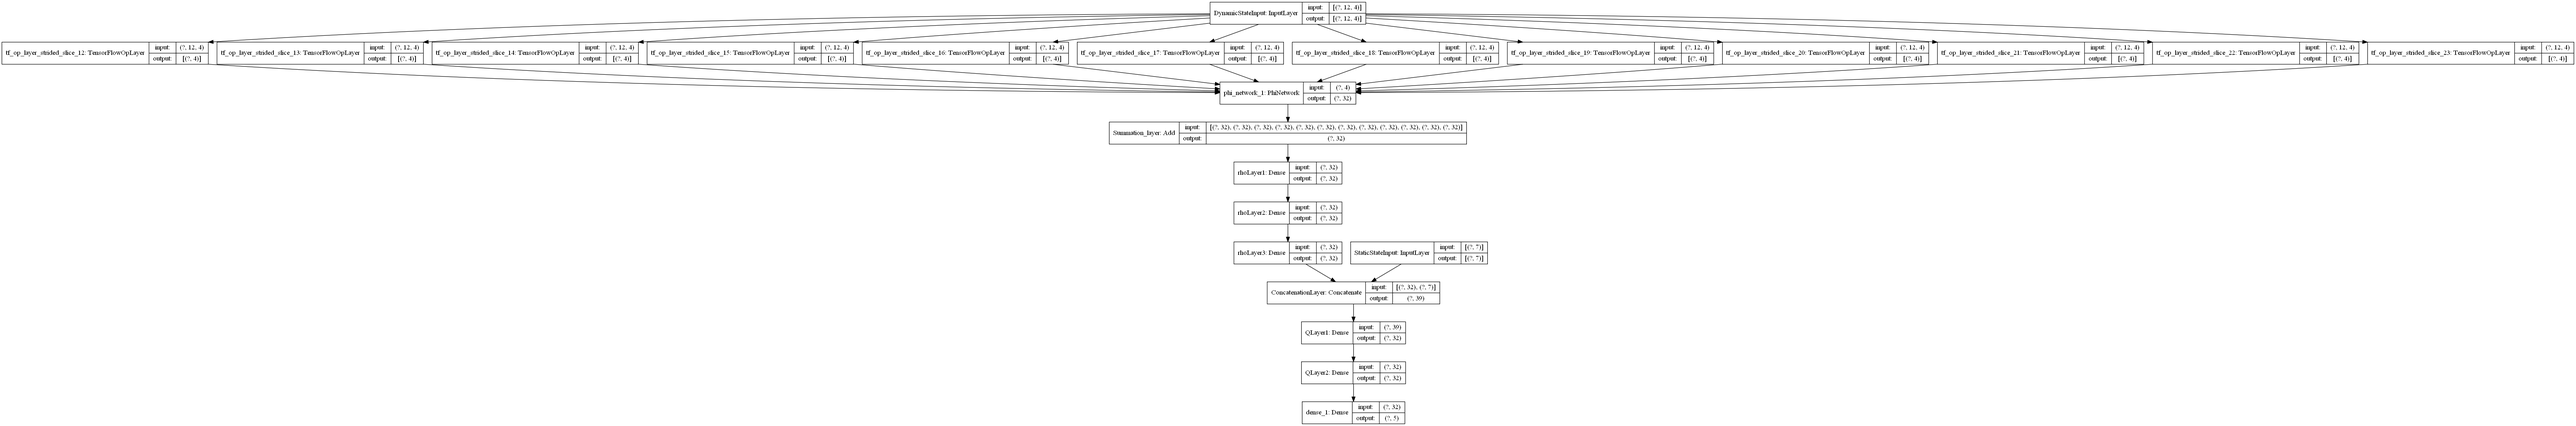
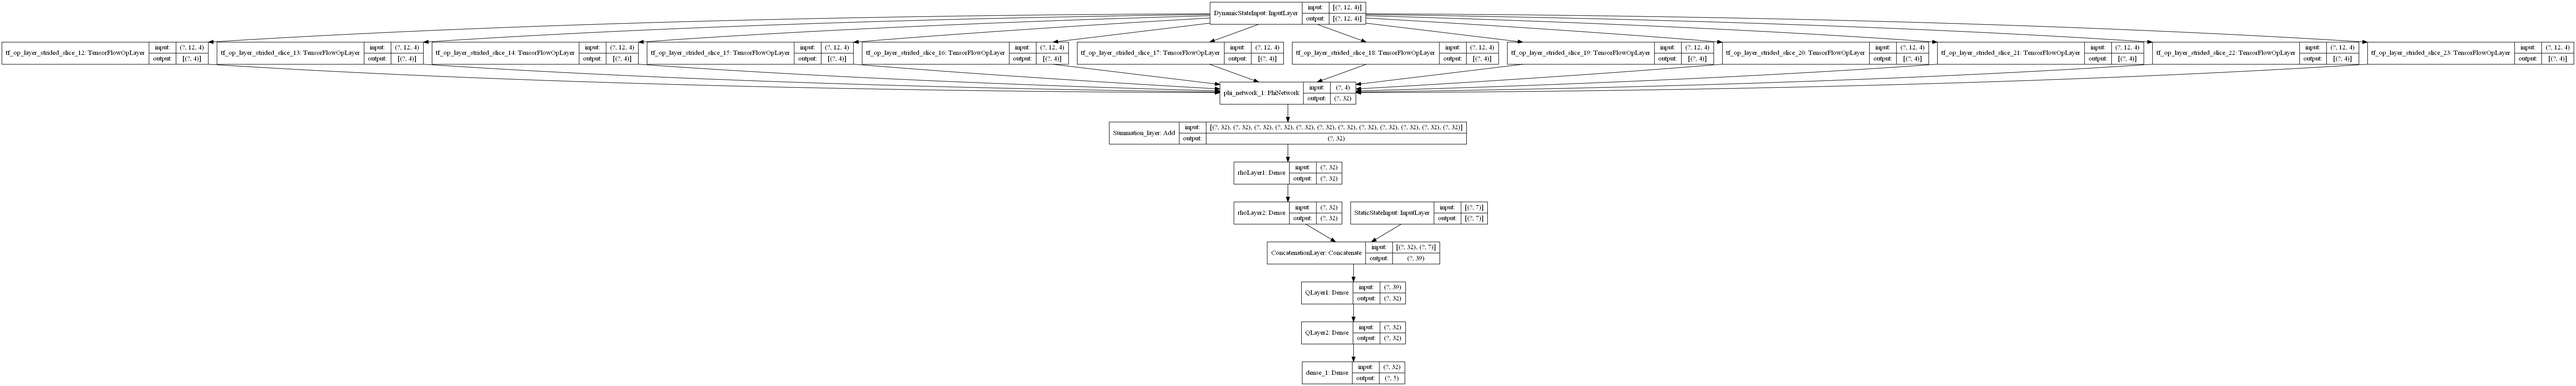
Fixed Deepset model again, will repeat parameter sweep

diff --git a/python/implementation/Models.py b/python/implementation/Models.py
@@ -315,83 +315,90 @@ class DeepSetQNetwork(keras.Model):
         n_units = model_param["n_units"]
         n_units_phi = model_param["deepset_param"]["n_units_phi"]
         n_units_rho = model_param["deepset_param"]["n_units_rho"]
+        self.n_layers_rho = len(n_units_rho)
+        self.n_layers_phi = len(n_units_phi)
+        self.is_batch_norm = model_param["batch_normalisation"]
         n_inputs_static = 7
         n_inputs_dynamic = 4
         n_vehicles = 12  # Defined by default D_max size
         n_actions = model_param["n_actions"]
 
-        self.static_input_layer = layers.Input(shape=(n_inputs_static), name="StaticStateInput")
-        self.dynamic_input_layer = layers.Input(shape=tf.TensorShape([n_vehicles, n_inputs_dynamic]), name="DynamicStateInput")
+        self.phi_network = PhiNetwork(n_units_phi, act_func_phi, ("PhiLayer1", "PhiLayer2", "PhiLayer3"))
 
-        vehicle_1 = self.dynamic_input_layer[:, 0, :]
-        vehicle_2 = self.dynamic_input_layer[:, 1, :]
-        vehicle_3 = self.dynamic_input_layer[:, 2, :]
-        vehicle_4 = self.dynamic_input_layer[:, 3, :]
-        vehicle_5 = self.dynamic_input_layer[:, 4, :]
-        vehicle_6 = self.dynamic_input_layer[:, 5, :]
-        vehicle_7 = self.dynamic_input_layer[:, 6, :]
-        vehicle_8 = self.dynamic_input_layer[:, 7, :]
-        vehicle_9 = self.dynamic_input_layer[:, 8, :]
-        vehicle_10 = self.dynamic_input_layer[:, 9, :]
-        vehicle_11 = self.dynamic_input_layer[:, 10, :]
-        vehicle_12 = self.dynamic_input_layer[:, 11, :]
+        self.sum_layer = layers.Add(name="Summation_layer")
 
-        phi_network = PhiNetwork(n_units_phi, act_func_phi, ("PhiLayer1", "PhiLayer2", "PhiLayer3"))
-
-        phi_out_1 = phi_network(vehicle_1)
-        phi_out_2 = phi_network(vehicle_2)
-        phi_out_3 = phi_network(vehicle_3)
-        phi_out_4 = phi_network(vehicle_4)
-        phi_out_5 = phi_network(vehicle_5)
-        phi_out_6 = phi_network(vehicle_6)
-        phi_out_7 = phi_network(vehicle_7)
-        phi_out_8 = phi_network(vehicle_8)
-        phi_out_9 = phi_network(vehicle_9)
-        phi_out_10 = phi_network(vehicle_10)
-        phi_out_11 = phi_network(vehicle_11)
-        phi_out_12 = phi_network(vehicle_12)
-
-        sum_layer = layers.Add(name="Summation_layer")([phi_out_1, phi_out_2, phi_out_3, phi_out_4,
-                                                             phi_out_5, phi_out_6, phi_out_7, phi_out_8,
-                                                             phi_out_9, phi_out_10, phi_out_11, phi_out_12])
-
-        if len(n_units_rho) == 3:
-            rho_layer_1 = layers.Dense(n_units_rho[0], activation=act_func_rho, name="rhoLayer1")(sum_layer)
-            rho_layer_2 = layers.Dense(n_units_rho[1], activation=act_func_rho, name="rhoLayer2")(rho_layer_1)
-            rho_layer_3 = layers.Dense(n_units_rho[2], activation=act_func_rho, name="rhoLayer3")(rho_layer_2)
-            if model_param["batch_normalisation"] == True:
-                batch_norm_layer = layers.BatchNormalization(name="batch_norm")(rho_layer_3)
-                concat_layer = layers.Concatenate(name="ConcatenationLayer")(
-                    [batch_norm_layer, self.static_input_layer])
+        if self.n_layers_rho == 3:
+            self.rho_layer_1 = layers.Dense(n_units_rho[0], activation=act_func_rho, name="rhoLayer1")
+            self.rho_layer_2 = layers.Dense(n_units_rho[1], activation=act_func_rho, name="rhoLayer2")
+            self.rho_layer_3 = layers.Dense(n_units_rho[2], activation=act_func_rho, name="rhoLayer3")
+            if self.is_batch_norm:
+                self.batch_norm_layer = layers.BatchNormalization(name="batch_norm")
+                self.concat_layer = layers.Concatenate(name="ConcatenationLayer")
             else:
-                concat_layer = layers.Concatenate(name="ConcatenationLayer")(
-                    [rho_layer_3, self.static_input_layer])
-        else:
-            rho_layer_1 = layers.Dense(n_units_rho[0], activation=act_func_rho, name="rhoLayer1")(sum_layer)
-            rho_layer_2 = layers.Dense(n_units_rho[1], activation=act_func_rho, name="rhoLayer2")(rho_layer_1)
-            if model_param["batch_normalisation"]==True:
-                batch_norm_layer = layers.BatchNormalization(name="batch_norm")(rho_layer_2)
-                concat_layer = layers.Concatenate(name="ConcatenationLayer")(
-                    [batch_norm_layer, self.static_input_layer])
+                self.concat_layer = layers.Concatenate(name="ConcatenationLayer")
+        else:  # 2 rho layers
+            self.rho_layer_1 = layers.Dense(n_units_rho[0], activation=act_func_rho, name="rhoLayer1")
+            self.rho_layer_2 = layers.Dense(n_units_rho[1], activation=act_func_rho, name="rhoLayer2")
+            if self.is_batch_norm:
+                self.batch_norm_layer = layers.BatchNormalization(name="batch_norm")
+                self.concat_layer = layers.Concatenate(name="ConcatenationLayer")
             else:
-                concat_layer = layers.Concatenate(name="ConcatenationLayer")([rho_layer_2, self.static_input_layer])
+                self.concat_layer = layers.Concatenate(name="ConcatenationLayer")
 
-        Q_layer_1 = layers.Dense(n_units[0], activation=act_func, name="QLayer1")(concat_layer)
-        Q_layer_2 = layers.Dense(n_units[1], activation=act_func, name="QLayer2")(Q_layer_1)
+        self.Q_layer_1 = layers.Dense(n_units[0], activation=act_func, name="QLayer1")
+        self.Q_layer_2 = layers.Dense(n_units[1], activation=act_func, name="QLayer2")
 
-        output_layer = layers.Dense(n_actions)(Q_layer_2)
-
-        self.model = keras.Model(inputs=[self.dynamic_input_layer, self.static_input_layer],
-                                 trainable=self.model_param["trainable"],
-                                 outputs=output_layer,
-                                 name="Deepset_DDQN")
-
-        self.display_overview()
+        self.output_layer = layers.Dense(n_actions)
 
     @tf.function
     def call(self, inputs: tf.Tensor):
         """ Returns the output of the model given an input. """
-        return self.model(inputs)
+        dynamic_input = inputs[0]
+        static_input = inputs[1]
+        batch_size = tf.shape(dynamic_input)[0]
+        if self.n_layers_phi == 3:
+            phi_feature_size = self.model_param["deepset_param"]["n_units_phi"][-1]
+        else:
+            phi_feature_size = self.model_param["deepset_param"]["n_units_phi"][1]
+
+        non_zero_vehicles = tf.gather(inputs[0], tf.where(tf.reduce_sum(dynamic_input, axis=2) != 0)[:, 1], axis=1)
+        if tf.size(non_zero_vehicles) == 0:
+            summation = tf.zeros((batch_size, phi_feature_size))
+        else:
+            number_non_zero_veh = tf.shape(non_zero_vehicles)[1]
+            phi_out = []
+            for veh_ind in tf.range(number_non_zero_veh):
+                phi_out.append(self.phi_network(non_zero_vehicles[:,veh_ind,:]))
+            summation = self.sum_layer(phi_out)
+
+        if self.n_layers_rho == 3:
+            rho_1_out = self.rho_layer_1(summation)
+            rho_2_out = self.rho_layer_2(rho_1_out)
+            rho_3_out = self.rho_layer_3(rho_2_out)
+            if self.is_batch_norm:
+                batch_norm_out = self.batch_norm_layer(rho_3_out)
+                concat = [batch_norm_out, static_input]
+                concat_out = self.concat_layer(concat)
+            else:
+                concat = [rho_3_out, static_input]
+                concat_out = self.concat_layer(concat)
+        else:
+            rho_1_out = self.rho_layer_1(summation)
+            rho_2_out = self.rho_layer_2(rho_1_out)
+            if self.is_batch_norm:
+                batch_norm_out = self.batch_norm_layer(rho_2_out)
+                concat = [batch_norm_out, static_input]
+                concat_out = self.concat_layer(concat)
+            else:
+                concat = [rho_2_out, static_input]
+                concat_out = self.concat_layer(concat)
+
+        q_1_out = self.Q_layer_1(concat_out)
+        q_2_out = self.Q_layer_2(q_1_out)
+        output = self.output_layer(q_2_out)
+
+        return output
+
 
     def display_overview(self):
         """ Displays an overview of the model. """

diff --git a/python/implementation/Main.py b/python/implementation/Main.py
@@ -342,12 +342,6 @@ def start_run(vehicles, method, parameter, seed, value):
         RHO_SIZE = (32, 32)
         ACT_FUNC_RHO = tf.nn.relu
         BATCH_NORM = value
-    elif parameter == "Old deepset":
-        PHI_SIZE = (32, 32)
-        ACT_FUNC_PHI = tf.nn.relu
-        RHO_SIZE = (32, 32)
-        ACT_FUNC_RHO = tf.nn.relu
-        BATCH_NORM = False
 
 
     """RUN PARAMETERS:"""
@@ -399,7 +393,7 @@ def start_run(vehicles, method, parameter, seed, value):
     N_INPUTS = 55
     N_ACTIONS = 5
     ACT_FUNC = tf.nn.relu
-    BATCH_NORM = False
+    # BATCH_NORM = False
     """ NON-TEMPORAL MODEL PARAMETERS: """
     # For deepset:
     # PHI_SIZE = (64, 64)
@@ -558,15 +552,8 @@ def start_run(vehicles, method, parameter, seed, value):
 
     # Initialise model type:
     if USE_DEEPSET:
-        if method == "Deepset_tuning_fixed":
-            DQ_net = DeepSetQNetwork(model_param=model_param)
-            DQ_target_net = DeepSetQNetwork(model_param=model_param)
-        elif method == "Deepset_tuning_original":
-            DQ_net = OldDeepSetQNetwork(model_param=model_param)
-            DQ_target_net = OldDeepSetQNetwork(model_param=model_param)
-        else:
-            print("Method naming error")
-            sys.exit()
+        DQ_net = DeepSetQNetwork(model_param=model_param)
+        DQ_target_net = DeepSetQNetwork(model_param=model_param)
     elif USE_CNN and not USE_TEMPORAL_CNN:
         DQ_net = CNN(model_param=model_param)
         DQ_target_net = CNN(model_param=model_param)
@@ -642,7 +629,7 @@ if __name__=="__main__":
     run_timer = Timer("Run timer")
     run_timer.startTime()
 
-    PROCS = 32  # Number of cores to use
+    PROCS = 1  # Number of cores to use
     mp.set_start_method("spawn")  # Make sure different workers have different seeds if applicable
     P = mp.cpu_count()  # Number of available cores
     procs = max(min(PROCS, P), 1)  # Clip number of procs to [1;P]
@@ -658,41 +645,32 @@ if __name__=="__main__":
             value = parameter value
         """
         vehicles = {"slow": 10, "medium": 20, "fast": 5}
-        for method in ("Deepset_tuning_fixed", "Deepset_tuning_original"):
-            if method == "Deepset_tuning_fixed":
-                for parameter in (
-                'Phi network size', 'Rho network size', 'Rho activation function', 'Phi activation function',
-                'Batch normalisation'):
-                    for seed in (100, 300, 500):
-                        if parameter == "Phi network size":
-                            for value in (
-                            (16, 32), (32, 32), (32, 64), (64, 64), (16, 32, 64), (32, 32, 32), (32, 48, 64),
-                            (64, 64, 64)):
-                                yield vehicles, method, parameter, seed, value
-                        elif parameter == "Rho network size":
-                            for value in (
-                            (32, 16), (32, 32), (64, 32), (64, 64), (64, 32, 16), (32, 32, 32), (64, 48, 32),
-                            (64, 64, 64)):
-                                yield vehicles, method, parameter, seed, value
-                        elif parameter == "Rho activation function":
-                            for value in (tf.nn.relu, tf.nn.elu, tf.nn.tanh):
-                                yield vehicles, method, parameter, seed, value
-                        elif parameter == "Phi activation function":
-                            for value in (tf.nn.relu, tf.nn.elu, tf.nn.tanh):
-                                yield vehicles, method, parameter, seed, value
-                        elif parameter == "Batch normalisation":
-                            for value in (True, False):
-                                yield vehicles, method, parameter, seed, value
-                        else:
-                            sys.exit()
-            elif method == "Deepset_tuning_original":
-                parameter = "Old deepset"
+        method = "Deepset_tuning_fixed"
+        if method == "Deepset_tuning_fixed":
+            for parameter in (
+            'Phi network size', 'Rho network size', 'Rho activation function', 'Phi activation function',
+            'Batch normalisation'):
                 for seed in (100, 300, 500):
-                    value = "Defaults"
-                    yield vehicles, method, parameter, seed, value
-            else:
-                print("Method name error")
-                sys.exit()
+                    if parameter == "Phi network size":
+                        for value in (
+                        (32, 32), (64, 64), (32, 32, 32),(64, 64, 64)):
+                            yield vehicles, method, parameter, seed, value
+                    elif parameter == "Rho network size":
+                        for value in (
+                        (32, 32), (64, 64), (32, 32, 32), (64, 64, 64)):
+                            yield vehicles, method, parameter, seed, value
+                    elif parameter == "Rho activation function":
+                        for value in (tf.nn.relu, tf.nn.elu, tf.nn.tanh):
+                            yield vehicles, method, parameter, seed, value
+                    elif parameter == "Phi activation function":
+                        for value in (tf.nn.relu, tf.nn.elu, tf.nn.tanh):
+                            yield vehicles, method, parameter, seed, value
+                    elif parameter == "Batch normalisation":
+                        for value in (True, False):
+                            yield vehicles, method, parameter, seed, value
+                    else:
+                        sys.exit()
+
 
     if procs > 1:
         # Schedule all training runs in a parallel loop over multiple cores:

diff --git a/python/implementation/GraphPlotter.py b/python/implementation/GraphPlotter.py
@@ -31,6 +31,7 @@ For deleting experiment from Tensorboard:
 # tensorboard dev upload --logdir "./logfiles/DDQN_ER_reward_tuning/train" --name "DDQN reward shaping" --description "Tuning of the reward function to see if the following distance penalty is causing problems. Short run to 800 episodes. Default param"
 
 # tensorboard dev upload --logdir "./logfiles/Deepset_tuning_fixed/train" --name "Fixed Deepset parameter sweep" --description "Tuning of deepset after model was fixed. Defaults: Phi/Rho size = (32,32), ActFunc = Relu, Batchnorm=False"
+# tensorboard dev upload --logdir "./logfiles/Deepset_tuning_fixed/train" --name "Fixed Deepset parameter sweep number 2!" --description "Tuning of deepset run 2 after model was fixed. Defaults: Phi size=(32,32,32), Phi_act=relu, Rho_size = (32,32), Rho_act=tanh, Batchnorm=False"
 # tensorboard dev upload --logdir "./logfiles/Deepset_tuning_original/train" --name "Old Deepset model (broken)" --description "Old default deepset model but re-run with after the reward function was tuned. For comparison to new deepset model."
 
 
@@ -137,7 +138,7 @@ def preprocess_data(csv_path, run_type):
                 # Initialise values
                 smooth_np[0] = raw_np[0]  # First value in smoothed array is same as first value in raw
                 if k != "Epsilon":
-                    weight = 0.9
+                    weight = 0.93
                 else:
                     weight = 0.0
                 for step in range(1, len(raw_np)):
@@ -222,7 +223,9 @@ if __name__ == "__main__":
         'Deepset_tuning_run2': 'daXDaA0rRYWXofnUEM5R3Q',
         'DDQN_reward_shaping': 'S0cm843GQC66rgyfPKfnQA',
         'CNN_normal_tuning': 'x',
-
+        'Deepset_tuning_fixed_run1': '6HopvVnTR2GEzYUkBdTdDQ',
+        'Deepset_tuning_fixed_run2': '',
+        'Deepset_old': 'oc7AyPI8Q9eKRrUvNYsBtA',
     }
 
     experiment_paths = {
@@ -236,12 +239,15 @@ if __name__ == "__main__":
         'Deepset_tuning_run2': './logfiles/Deepset_tuning_run2/train',
         'DDQN_reward_shaping': './logfiles/DDQN_ER_reward_tuning/train',
         'CNN_normal_tuning': './logfiles/CNN_normal_tuning/train',
+        'Deepset_tuning_fixed_run1': './logfiles/Deepset_tuning_fixed_run1/train',
+        'Deepset_tuning_fixed_run2': './logfiles/Deepset_tuning_fixed_run2/train',
+        'Deepset_old': './logfiles/Deepset_tuning_original/train'
     }
 
     experiment_names = list(experiment_ids.keys())
     print(experiment_names)
 
-    experiment_name = "DDQN_reward_shaping"
+    experiment_name = "Baselines"
     run_type = 'method_comparison'  # 'method comparison' OR 'parameter_sweep'
     csv_path = experiment_paths[experiment_name] + "/" + experiment_name + '.csv'
     download_and_save(experiment_name, csv_path)  # Comment out if you don't want to re-download the data

diff --git a/python/implementation/Policies.py b/python/implementation/Policies.py
@@ -526,6 +526,7 @@ class DiscreteSingleActionPolicy(CustomPolicy):
                 veh.s1_mod = convert_state(veh, remove_velocity=self.remove_velocity)
 
             if self.agent.training_param["noise_param"]["use_noise"]:
+                # TODO !!!!!!!!!!! ONLY ADD STATE NOISE ON NON-ZERO MEASUREMENTS !!!!!!!!!!!!!!
                 veh.s1_mod = add_state_noise(veh.s1_mod,
                                              is_normal=self.agent.training_param["noise_param"]["normal"],
                                              is_uniform=self.agent.training_param["noise_param"]["uniform"],
